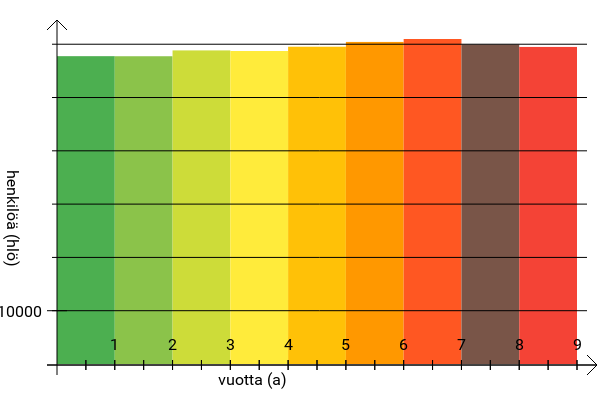
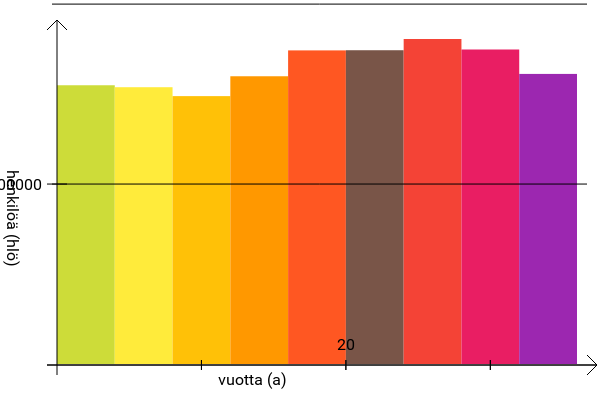
Fixed problems with scaling

diff --git a/Resources/JS/script.js b/Resources/JS/script.js
@@ -37,7 +37,7 @@ SOFTWARE OR THE USE OR OTHER DEALINGS IN THE SOFTWARE.
 var x_move = 27;
 var y_move = 0;
 
-    
+
     // This function draws the co-ordinate axes
 
 function axis(ctx){
@@ -93,8 +93,8 @@ function sanitizeFloat(flt){
 
         // Regex-based removal of most unwanted characters
 
-        var result = flt.replace(/&nbsp;/g, "").replace(/\u00A0/g, "").replace(",", ".").replace(/\s/g, "").replace("<br>", "");
-        
+        var result = flt.replace(/&nbsp;/g, "").replace(/\u00A0/g, "").replace(",", ".").replace(/\s/g, "").replace("<br>", "").replace(" ", "");
+
         // If the formatted string matches this regex, it is a valid float, if it doesn't it isn't.
 
         var ok = /^[0-9]+([.,][0-9]+)?$/;
@@ -168,6 +168,10 @@ function plot(){
         var canvas = document.getElementById('canvas');
         var ctx = canvas.getContext('2d');ctx.beginPath();
 
+        // This variable is to remember what is the lowest value of the plot
+
+        var lowest_x = 0
+
         // Values of the <input type="text">s on the page, very aptly named
 
         var vals = [];
@@ -216,6 +220,10 @@ function plot(){
 
                 }else if(right_range === -1){
 
+                    // Remember what to add to all values
+
+                    lowest_x = val[1];
+
                     // Setup the lower boundary of the range, push the content of the input and setup the range
 
                     right_range = range;
@@ -243,7 +251,7 @@ function plot(){
                     // If not, tell the user. Unescape is used here to get finnish characters not covered by ascii (a with a umlautm, html entity &auml;).
 
                     alert(unescape("Virhe kohdassa '"+inputs[i*2-2].innerHTML+"'. Halutaan lukuv%E4li muodossa <pienempi luku>-<suurempi luku>."));
-                
+
                 }
             }
 
@@ -264,7 +272,7 @@ function plot(){
         // Iterate over the parsed left half of the spreadsheet
 
         for(var i = 0; i < vals.length; i++){
-           
+
             // Add the last value to the sum
 
             sum_x += vals[i][0];
@@ -277,7 +285,7 @@ function plot(){
 
                 sum_y = vals[i][1];
             }
-           
+
         }
 
         // Calculate the exact values of the multipliers. These are based on the pixel-width of the <canvas> -tag.
@@ -292,7 +300,7 @@ function plot(){
         // List of colors to use. These are from Google's Material Design's palette.
 
         var colors = ["#f44336", "#e91e63", "#9c27b0", "#673ab7", "#3f51b5", "#2196f3", "#03a9f4", "#00bcd4", "#009688", "#4caf50", "#8bc34a", "#cddc39", "#ffeb3b", "#ffc107", "#ff9800", "#ff5722", "#795548"];
-        
+
         // Pick a first color at random, the following ones go well with it
 
         var c = Math.floor(Math.random()*colors.length);
@@ -300,11 +308,11 @@ function plot(){
         // Iterate over both colors and bars
 
         for(var i = 0; i < vals.length; i++){
-        
+
             // Draw the bar
 
             width += tick(width, ctx, vals[i][1]*kerroin_y, vals[i][0]*kerroin_x, colors[c%colors.length]);
-            
+
             // Increment the iterator for the colors. (No pun intended)
 
             c++;
@@ -320,7 +328,7 @@ function plot(){
         ctx.font = "16px Roboto";
         ctx.fillStyle = "black";
         ctx.textAlign = "center";
-         
+
         // Calculate the order of magnitude for the plot's x-axis
 
         var i = 1;
@@ -334,8 +342,8 @@ function plot(){
         // Draw the adequate text to the adequate place (magic)
 
         if(!document.getElementById("show_vbars").checked)
-        ctx.fillText( String(Math.pow(10, i-1)), x_move + Math.pow(10, i-1)*kerroin_x + 30, y_move + 352);
-        
+        ctx.fillText( String(Math.pow(10, i-1)+lowest_x), x_move + Math.pow(10, i-1)*kerroin_x + 30, y_move + 352);
+
         // Draw the line indicating scale of the x-axis
 
         ctx.moveTo(x_move + Math.pow(10, i-1)*kerroin_x + 30, y_move + 355);
@@ -345,14 +353,14 @@ function plot(){
 
         if(document.getElementById("show_vbars").checked){
 
-            vbars(ctx, kerroin_x, i);
+            vbars(ctx, kerroin_x, i, lowest_x);
 
         }
 
         // Calculate the order of magnitude for the plot's y-axis
 
         i = 1;
-        
+
         while(Math.pow(10, i) < sum_y){
 
             i = i + 1;
@@ -385,7 +393,7 @@ function plot(){
 
     // Function to draw the vertical bars of the plot
 
-function vbars(ctx, scale, i){
+function vbars(ctx, scale, i, lowest_x){
 
         // Save the context
 
@@ -415,7 +423,7 @@ function vbars(ctx, scale, i){
                 // Add text to only every other bar
 
                 if(!(ii%2))
-                ctx.fillText( String(Math.pow(10, i-1)*(ii/2)), x_move + Math.pow(10, i-1)*scale*ii/2 + 30, y_move + 350);//       x_move + 370-Math.pow(10, i-1)*kerroin_x, y_move + 352);
+                ctx.fillText( String(Math.pow(10, i-1)*(ii/2) + lowest_x), x_move + Math.pow(10, i-1)*scale*ii/2 + 30, y_move + 350);//       x_move + 370-Math.pow(10, i-1)*kerroin_x, y_move + 352);
 
                 ii = ii + 1;
             }
@@ -431,7 +439,7 @@ function vbars(ctx, scale, i){
                 // Add text to only every other bar
 
                 if(!(ii%2))
-                ctx.fillText( String(Math.pow(10, i-1)*(ii)), x_move + Math.pow(10, i-1)*scale*ii + 30, y_move + 350);//       x_move + 370-Math.pow(10, i-1)*kerroin_x, y_move + 352);
+                ctx.fillText( String(Math.pow(10, i-1)*(ii) + lowest_x), x_move + Math.pow(10, i-1)*scale*ii + 30, y_move + 350);//       x_move + 370-Math.pow(10, i-1)*kerroin_x, y_move + 352);
 
                 ii = ii + 1;
             }
@@ -477,7 +485,7 @@ function hbars(ctx, scale, i){
             }
         }else{
 
-            // Else use nine bars 
+            // Else use nine bars
 
             while(ii < 10){
                 ctx.moveTo(x_move + 25,  y_move + 364-Math.pow(10, i-1)*scale*ii);
@@ -529,7 +537,7 @@ function updateAxis(){
 
     var c = document.getElementById("canvas");
     var ctx = c.getContext("2d");
-    
+
     // Clear the plot
 
     ctx.clearRect(0, 0, c.width, c.height)
@@ -537,27 +545,27 @@ function updateAxis(){
     // Start by saving the current context (current orientation, origin)
 
     ctx.save();
- 
+
     // Now rotate the canvas anti-clockwise by 90 degrees
 
     ctx.rotate( Math.PI / 2 );
- 
+
     // Specify the font and color of the text
     ctx.font = "16px Roboto";
     ctx.fillStyle = "black";
-     
+
     // Set alignment of text (left-align)
     ctx.textAlign = "left";
-     
+
     // Write the text on the right
 
     ctx.fillText( right, -y_move + 170, - x_move + 20);
-     
+
     // Now restore the canvas flipping it back to its original orientation
     ctx.restore();
     ctx.font = "16px Roboto";
     ctx.fillStyle = "black";
-     
+
     // Write the text on the left
     ctx.fillText( left, x_move + 260, y_move + 385);
 

diff --git a/README.md b/README.md
@@ -2,9 +2,9 @@
 
 Tämä ohjelma tuottaa annetusta datasta matemaattisilta merkinnöiltään oikeellisia histogrammeja. Ohjelma on tarkoitettu opetuskäyttöön, mutta se ei ole siihen rajoitettu. Käytetty tekniikka on HTML5 + CSS3, joten se ei vaadi riippuvuuksia, eikä se ole sidonnainen tiettyyn alustaan.
 
-Tältä voi esimerkiksi näyttää ohjelman tuottama kuvaaja (Suomessa elävänä syntyneet välillä 2004-2013)
+Tältä voi esimerkiksi näyttää ohjelman tuottama kuvaaja (Suomessa ssa eläneiden, alle 50 vuotiaiden miesten ikäjakauma)
 
-![Syntyvyystilasto](Demo.png "Syntyvyystilasto")
+![Ikäjakauma](Demo.png "Syntyvyystilasto")
 
 ## Asennus
 
